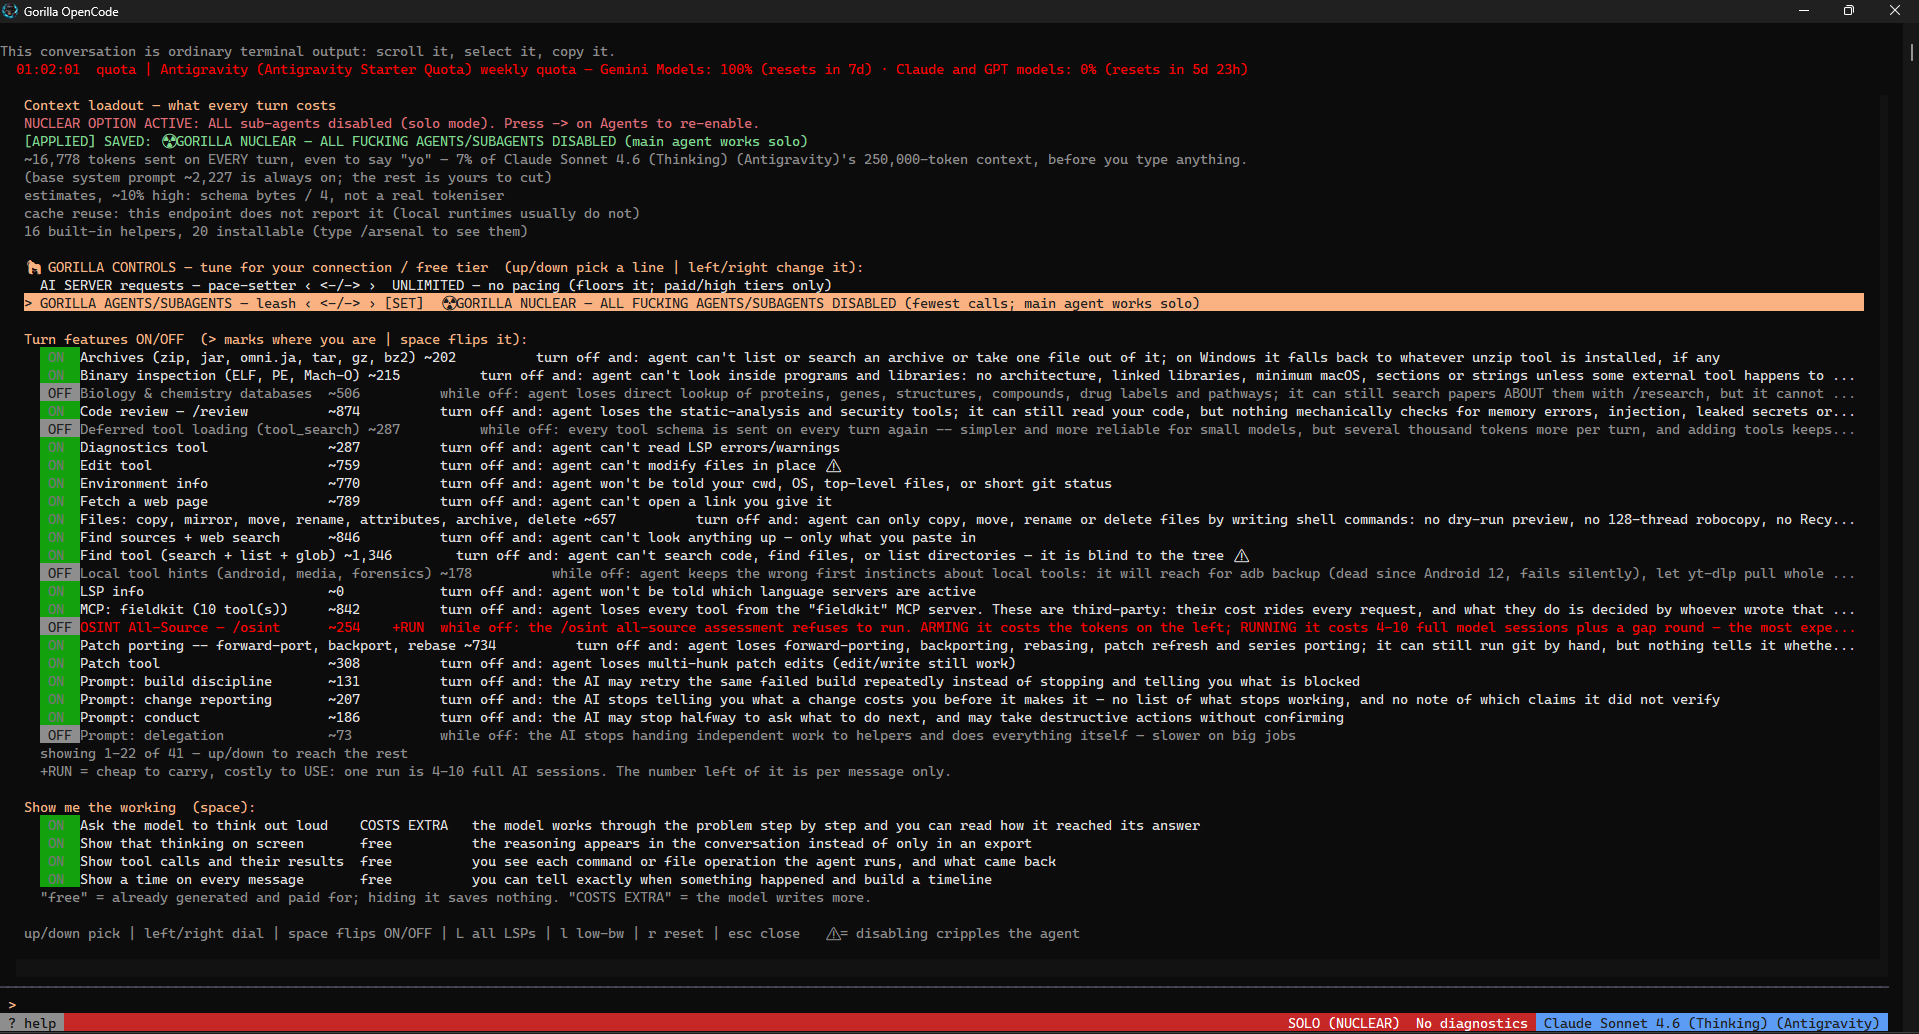
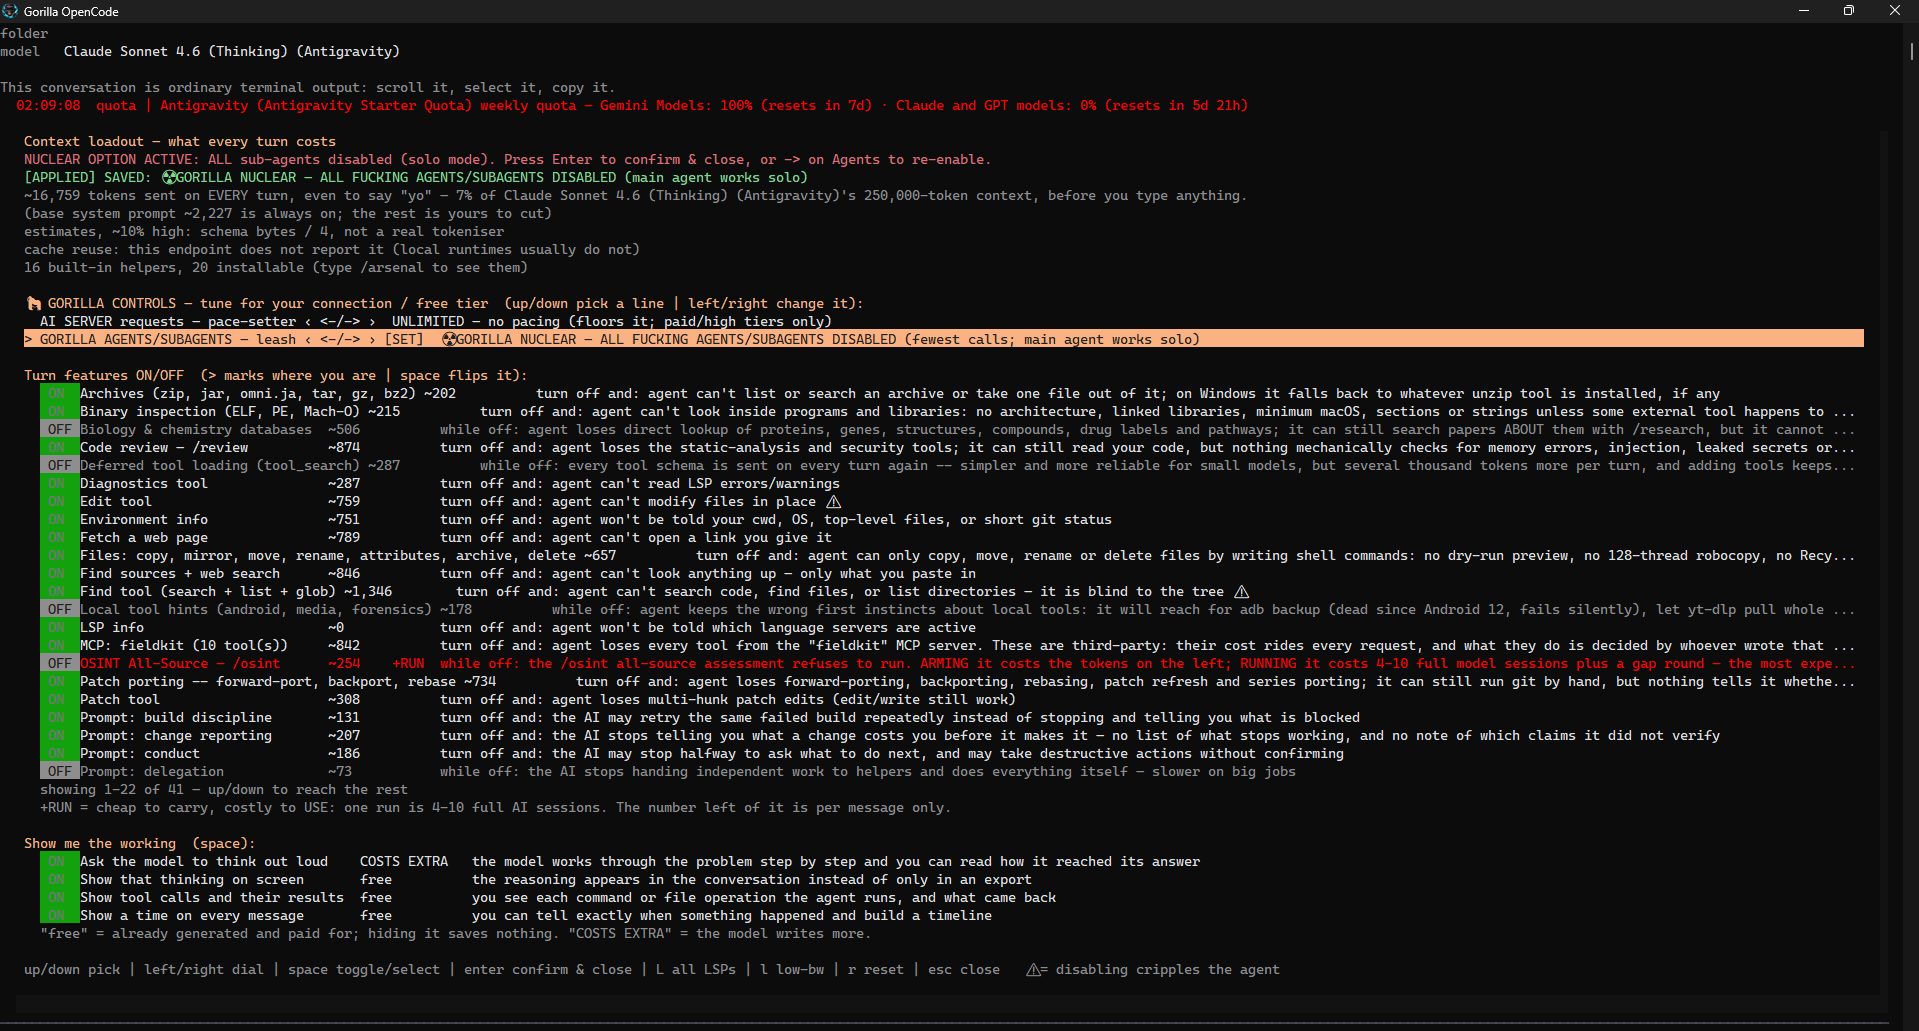
docs(screenshots): replace v0.1.168 Nuclear Option screenshot with updated Enter-to-confirm UI

Changed region(s): [[0.0, 0.031, 1.0, 1.0]]

diff --git a/releases/notes/v0.1.168/page.md b/releases/notes/v0.1.168/page.md
@@ -91,17 +91,18 @@ Yes — especially if you use `/context` to set a sub-agent cap or turn on
 
 #### 4. Gorilla Nuclear Option active (zero sub-agents, solo mode)
 
-[![Context loadout dialog with Gorilla Nuclear Option enabled, displaying the red NUCLEAR OPTION ACTIVE warning banner, green [APPLIED] SAVED Nuclear confirmation, inline [SET] tag, and red SOLO (NUCLEAR) badge in the status bar](https://raw.githubusercontent.com/gorillanobakaa-dot/Gorilla.Opencode/v0.1.168/docs/screenshots/gallery/v0168-context-nuclear-option.png)](https://raw.githubusercontent.com/gorillanobakaa-dot/Gorilla.Opencode/v0.1.168/docs/screenshots/gallery/v0168-context-nuclear-option.png)
+[![Context loadout dialog with Gorilla Nuclear Option enabled, displaying the red NUCLEAR OPTION ACTIVE warning banner with Enter to confirm and close, green [APPLIED] SAVED Nuclear confirmation, inline [SET] tag, and enter confirm and close footer](https://raw.githubusercontent.com/gorillanobakaa-dot/Gorilla.Opencode/main/docs/screenshots/gallery/v0168-context-nuclear-option.png)](https://raw.githubusercontent.com/gorillanobakaa-dot/Gorilla.Opencode/main/docs/screenshots/gallery/v0168-context-nuclear-option.png)
 
 - **What you are seeing:** **Gorilla Nuclear Option** turned on (dial all the
   way left with `←`, then press **`Enter`** to confirm and close). You get
   three unmistakable signals that no background sub-agents can spawn:
-  1. The bright red **`NUCLEAR OPTION ACTIVE: ALL sub-agents disabled (solo mode)`**
+  1. The bright red **`NUCLEAR OPTION ACTIVE: ALL sub-agents disabled (solo mode). Press Enter to confirm & close, or -> on Agents to re-enable.`**
      banner at the top.
   2. The green **`[APPLIED] SAVED: GORILLA NUCLEAR`** confirmation and inline
      **`[SET]`** tag on the highlighted row.
-  3. The persistent red **`SOLO (NUCLEAR)`** badge on the bottom status bar so
-     you always know solo mode is locked on even after closing `/context`.
+  3. The updated bottom key bar showing **`enter confirm & close`** alongside
+     `space toggle/select` and `left/right dial`, so hitting `Enter` locks
+     Nuclear Option in place and closes `/context`.
 
 ### What was checked
 

diff --git a/Changelogs/v0.1.168-release-notes.layman.md b/Changelogs/v0.1.168-release-notes.layman.md
@@ -64,17 +64,18 @@ Yes — especially if you use `/context` to set a sub-agent cap or turn on
 
 ### 4. Gorilla Nuclear Option active (zero sub-agents, solo mode)
 
-[![Context loadout dialog with Gorilla Nuclear Option enabled, displaying the red NUCLEAR OPTION ACTIVE warning banner, green [APPLIED] SAVED Nuclear confirmation, inline [SET] tag, and red SOLO (NUCLEAR) badge in the status bar](https://raw.githubusercontent.com/gorillanobakaa-dot/Gorilla.Opencode/v0.1.168/docs/screenshots/gallery/v0168-context-nuclear-option.png)](https://raw.githubusercontent.com/gorillanobakaa-dot/Gorilla.Opencode/v0.1.168/docs/screenshots/gallery/v0168-context-nuclear-option.png)
+[![Context loadout dialog with Gorilla Nuclear Option enabled, displaying the red NUCLEAR OPTION ACTIVE warning banner with Enter to confirm and close, green [APPLIED] SAVED Nuclear confirmation, inline [SET] tag, and enter confirm and close footer](https://raw.githubusercontent.com/gorillanobakaa-dot/Gorilla.Opencode/main/docs/screenshots/gallery/v0168-context-nuclear-option.png)](https://raw.githubusercontent.com/gorillanobakaa-dot/Gorilla.Opencode/main/docs/screenshots/gallery/v0168-context-nuclear-option.png)
 
 - **What you are seeing:** **Gorilla Nuclear Option** turned on (dial all the
   way left with `←`, then press **`Enter`** to confirm and close). You get
   three unmistakable signals that no background sub-agents can spawn:
-  1. The bright red **`NUCLEAR OPTION ACTIVE: ALL sub-agents disabled (solo mode)`**
+  1. The bright red **`NUCLEAR OPTION ACTIVE: ALL sub-agents disabled (solo mode). Press Enter to confirm & close, or -> on Agents to re-enable.`**
      banner at the top.
   2. The green **`[APPLIED] SAVED: GORILLA NUCLEAR`** confirmation and inline
      **`[SET]`** tag on the highlighted row.
-  3. The persistent red **`SOLO (NUCLEAR)`** badge on the bottom status bar so
-     you always know solo mode is locked on even after closing `/context`.
+  3. The updated bottom key bar showing **`enter confirm & close`** alongside
+     `space toggle/select` and `left/right dial`, so hitting `Enter` locks
+     Nuclear Option in place and closes `/context`.
 
 ## What was checked
 

diff --git a/releases/notes/v0.1.168/layman.md b/releases/notes/v0.1.168/layman.md
@@ -64,17 +64,18 @@ Yes — especially if you use `/context` to set a sub-agent cap or turn on
 
 ### 4. Gorilla Nuclear Option active (zero sub-agents, solo mode)
 
-[![Context loadout dialog with Gorilla Nuclear Option enabled, displaying the red NUCLEAR OPTION ACTIVE warning banner, green [APPLIED] SAVED Nuclear confirmation, inline [SET] tag, and red SOLO (NUCLEAR) badge in the status bar](https://raw.githubusercontent.com/gorillanobakaa-dot/Gorilla.Opencode/v0.1.168/docs/screenshots/gallery/v0168-context-nuclear-option.png)](https://raw.githubusercontent.com/gorillanobakaa-dot/Gorilla.Opencode/v0.1.168/docs/screenshots/gallery/v0168-context-nuclear-option.png)
+[![Context loadout dialog with Gorilla Nuclear Option enabled, displaying the red NUCLEAR OPTION ACTIVE warning banner with Enter to confirm and close, green [APPLIED] SAVED Nuclear confirmation, inline [SET] tag, and enter confirm and close footer](https://raw.githubusercontent.com/gorillanobakaa-dot/Gorilla.Opencode/main/docs/screenshots/gallery/v0168-context-nuclear-option.png)](https://raw.githubusercontent.com/gorillanobakaa-dot/Gorilla.Opencode/main/docs/screenshots/gallery/v0168-context-nuclear-option.png)
 
 - **What you are seeing:** **Gorilla Nuclear Option** turned on (dial all the
   way left with `←`, then press **`Enter`** to confirm and close). You get
   three unmistakable signals that no background sub-agents can spawn:
-  1. The bright red **`NUCLEAR OPTION ACTIVE: ALL sub-agents disabled (solo mode)`**
+  1. The bright red **`NUCLEAR OPTION ACTIVE: ALL sub-agents disabled (solo mode). Press Enter to confirm & close, or -> on Agents to re-enable.`**
      banner at the top.
   2. The green **`[APPLIED] SAVED: GORILLA NUCLEAR`** confirmation and inline
      **`[SET]`** tag on the highlighted row.
-  3. The persistent red **`SOLO (NUCLEAR)`** badge on the bottom status bar so
-     you always know solo mode is locked on even after closing `/context`.
+  3. The updated bottom key bar showing **`enter confirm & close`** alongside
+     `space toggle/select` and `left/right dial`, so hitting `Enter` locks
+     Nuclear Option in place and closes `/context`.
 
 ## What was checked
 
